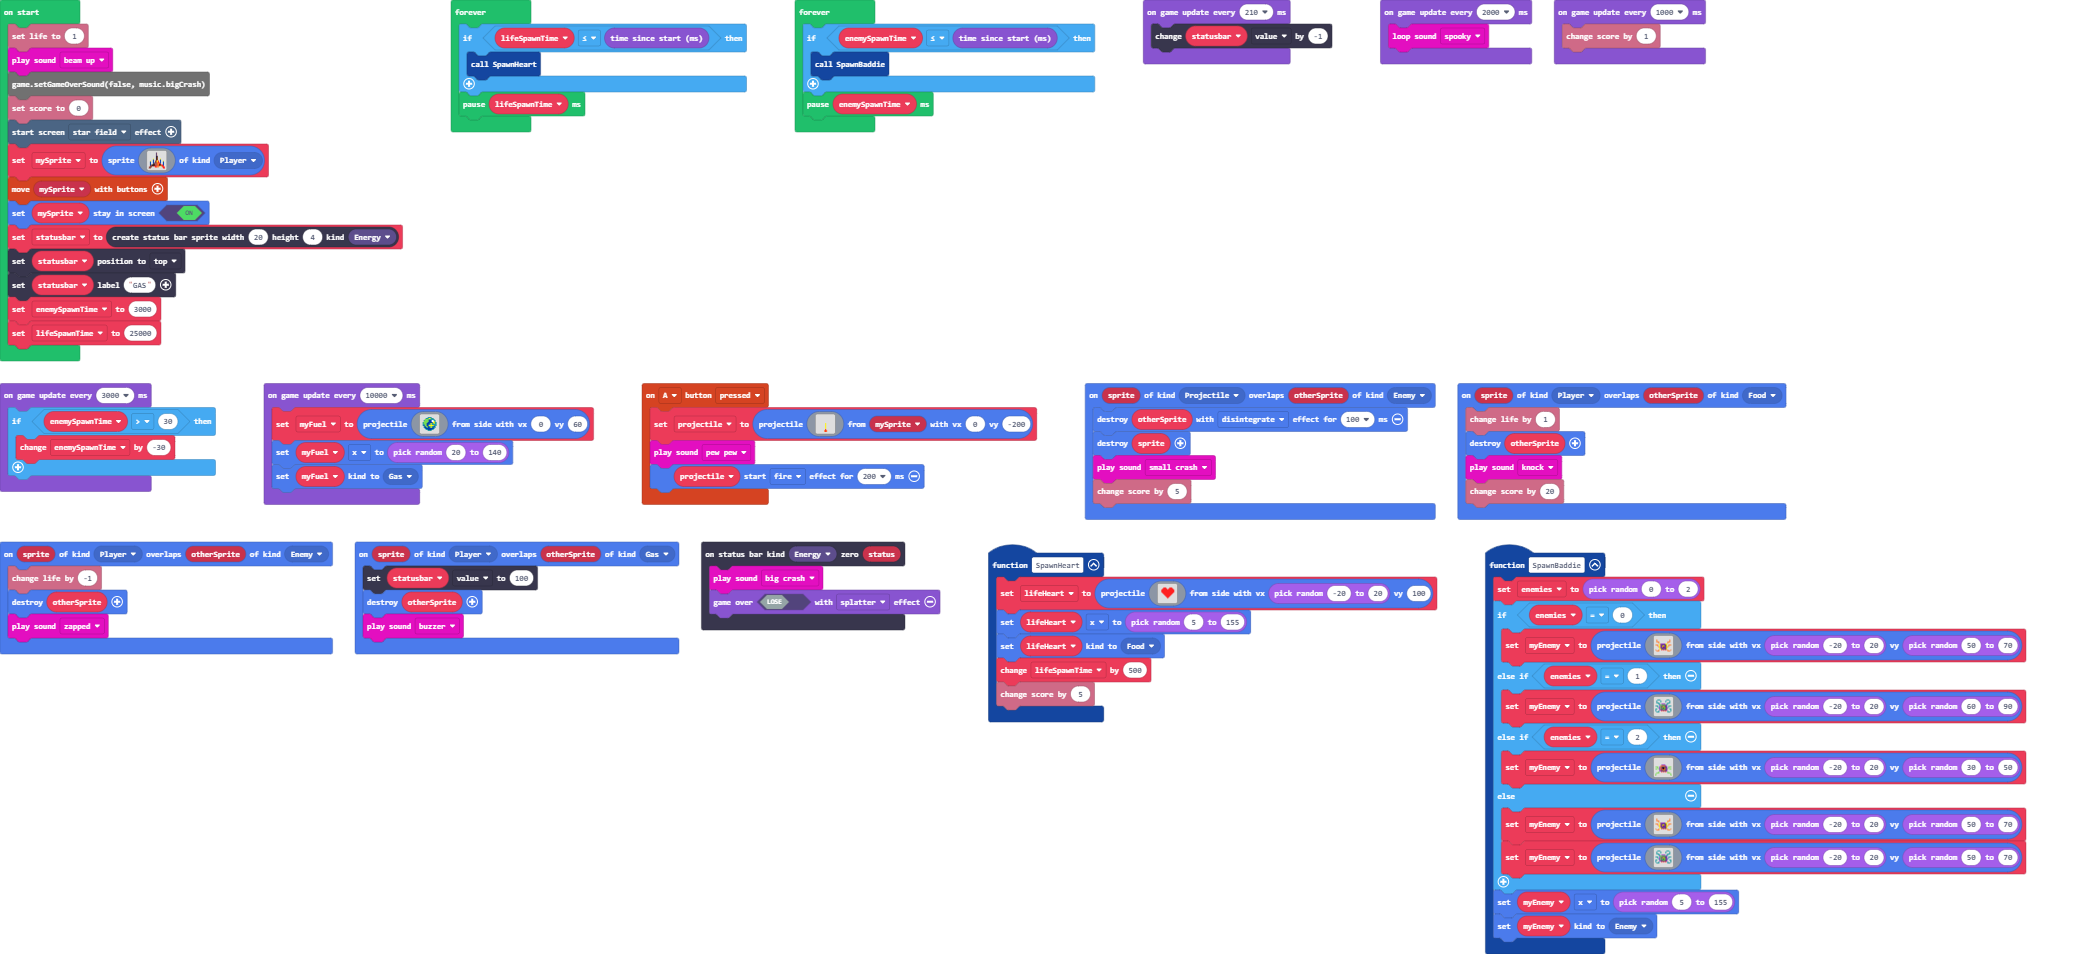
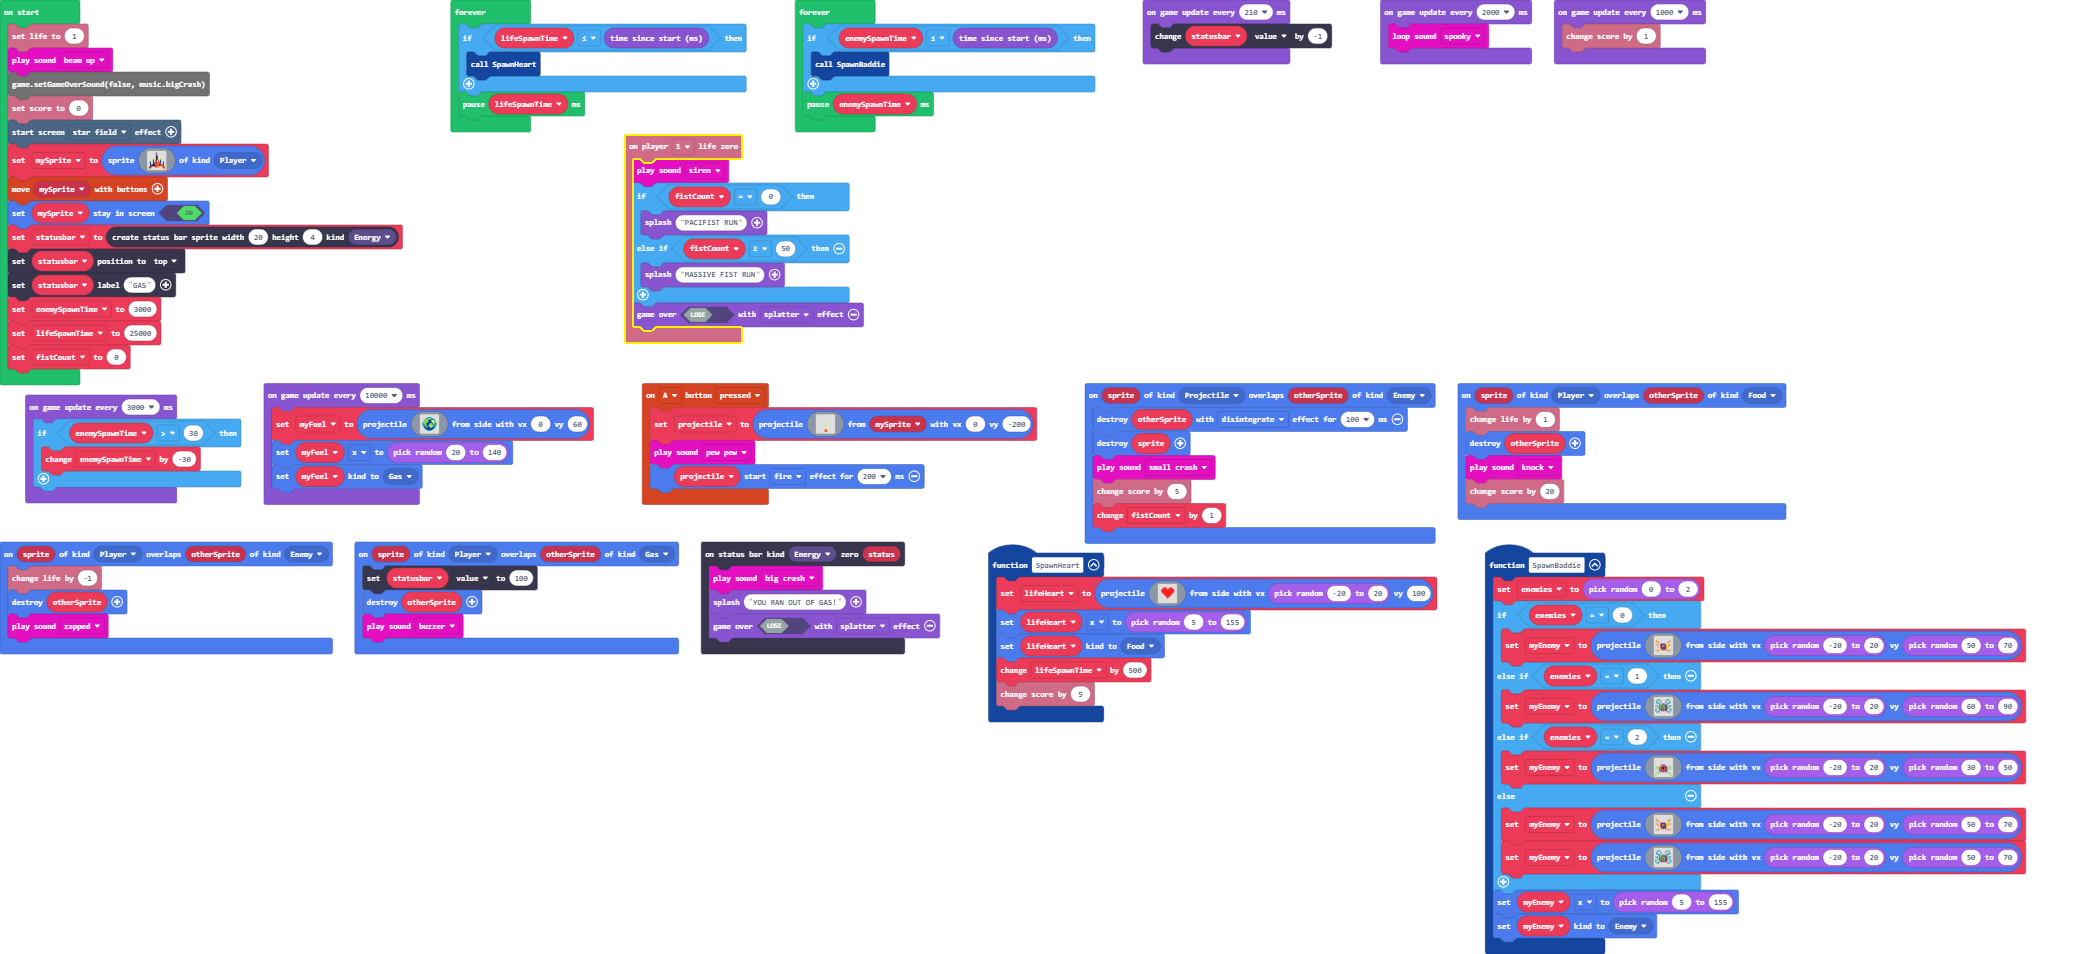
added flavour text

diff --git a/main.ts b/main.ts
@@ -158,8 +158,18 @@ sprites.onOverlap(SpriteKind.Player, SpriteKind.Food, function (sprite, otherSpr
     music.knock.play()
     info.changeScoreBy(20)
 })
+info.player1.onLifeZero(function () {
+    music.siren.play()
+    if (fistCount == 0) {
+        game.splash("PACIFIST RUN")
+    } else if (fistCount >= 50) {
+        game.splash("MASSIVE FIST RUN")
+    }
+    game.over(false, effects.splatter)
+})
 statusbars.onZero(StatusBarKind.Energy, function (status) {
     music.bigCrash.play()
+    game.splash("YOU RAN OUT OF GAS!")
     game.over(false, effects.splatter)
 })
 sprites.onOverlap(SpriteKind.Projectile, SpriteKind.Enemy, function (sprite, otherSprite) {
@@ -167,6 +177,7 @@ sprites.onOverlap(SpriteKind.Projectile, SpriteKind.Enemy, function (sprite, oth
     sprite.destroy()
     music.smallCrash.play()
     info.changeScoreBy(5)
+    fistCount += 1
 })
 sprites.onOverlap(SpriteKind.Player, SpriteKind.Enemy, function (sprite, otherSprite) {
     info.changeLifeBy(-1)
@@ -178,6 +189,7 @@ let lifeHeart: Sprite = null
 let myEnemy: Sprite = null
 let enemies = 0
 let projectile: Sprite = null
+let fistCount = 0
 let statusbar: StatusBarSprite = null
 let mySprite: Sprite = null
 info.setLife(1)
@@ -210,6 +222,7 @@ statusbar.positionDirection(CollisionDirection.Top)
 statusbar.setLabel("GAS")
 let enemySpawnTime = 3000
 let lifeSpawnTime = 25000
+fistCount = 0
 game.onUpdateInterval(210, function () {
     statusbar.value += -1
 })
@@ -243,12 +256,12 @@ game.onUpdateInterval(10000, function () {
         . . . . 6 6 6 5 5 6 6 6 . . . . 
         . . . 7 7 7 7 6 6 6 6 6 6 . . . 
         . . 6 7 7 7 7 8 8 8 1 1 6 6 . . 
-        . . 7 7 7 7 7 8 8 8 1 1 5 6 . . 
+        . 1 7 7 7 7 7 8 8 8 1 1 5 6 1 . 
         . 6 7 7 7 7 8 8 8 8 8 5 5 6 6 . 
         . 6 7 7 7 8 8 8 6 5 6 6 5 6 6 . 
         . 6 6 7 7 8 8 6 6 5 6 6 6 6 6 . 
         . 6 8 7 7 8 8 5 5 5 5 5 6 6 6 . 
-        . . 6 8 7 7 8 6 6 5 6 6 8 6 . . 
+        . 1 6 8 7 7 8 6 6 5 6 6 8 6 1 . 
         . . 6 8 8 7 8 8 6 5 6 8 6 6 . . 
         . . . 6 8 8 8 8 8 8 8 8 6 . . . 
         . . . . 6 6 8 8 8 8 6 6 . . . . 

diff --git a/tilemap.g.ts b/tilemap.g.ts
@@ -1,0 +1,14 @@
+// Auto-generated code. Do not edit.
+namespace myTiles {
+    //% fixedInstance jres blockIdentity=images._tile
+    export const transparency16 = image.ofBuffer(hex``);
+
+    helpers._registerFactory("tile", function(name: string) {
+        switch(helpers.stringTrim(name)) {
+            case "transparency16":return transparency16;
+        }
+        return null;
+    })
+
+}
+// Auto-generated code. Do not edit.
